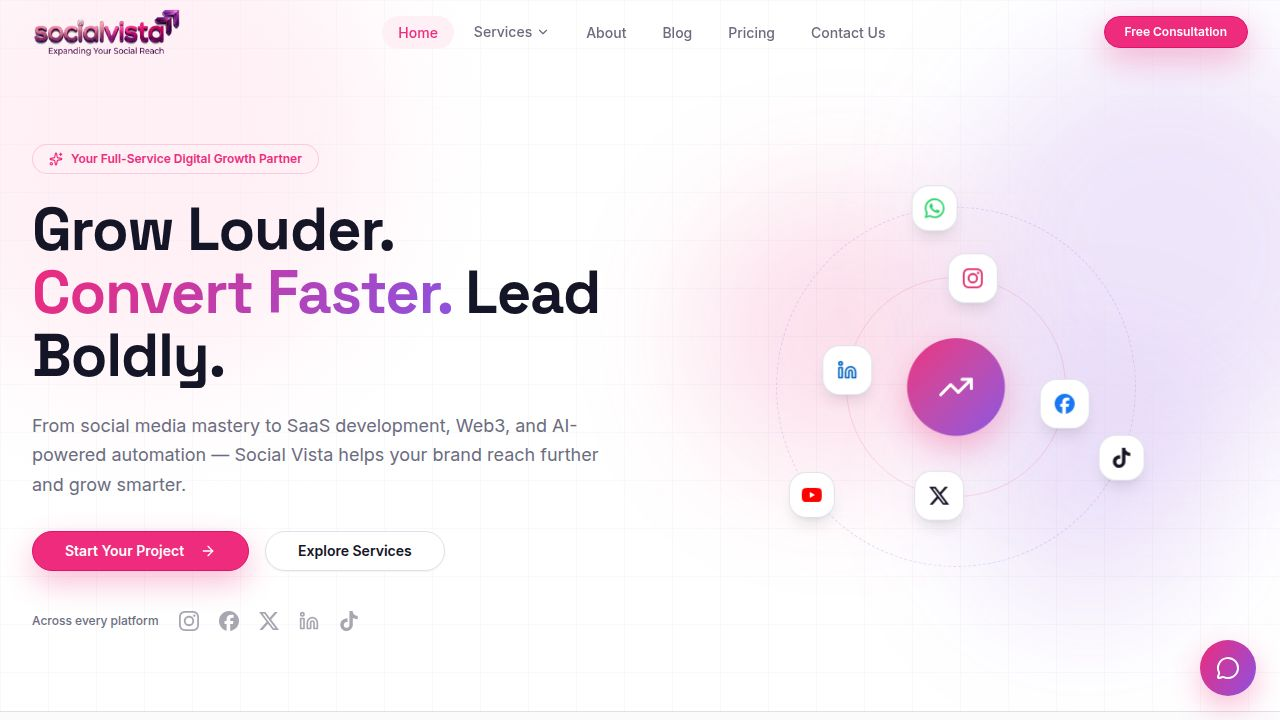
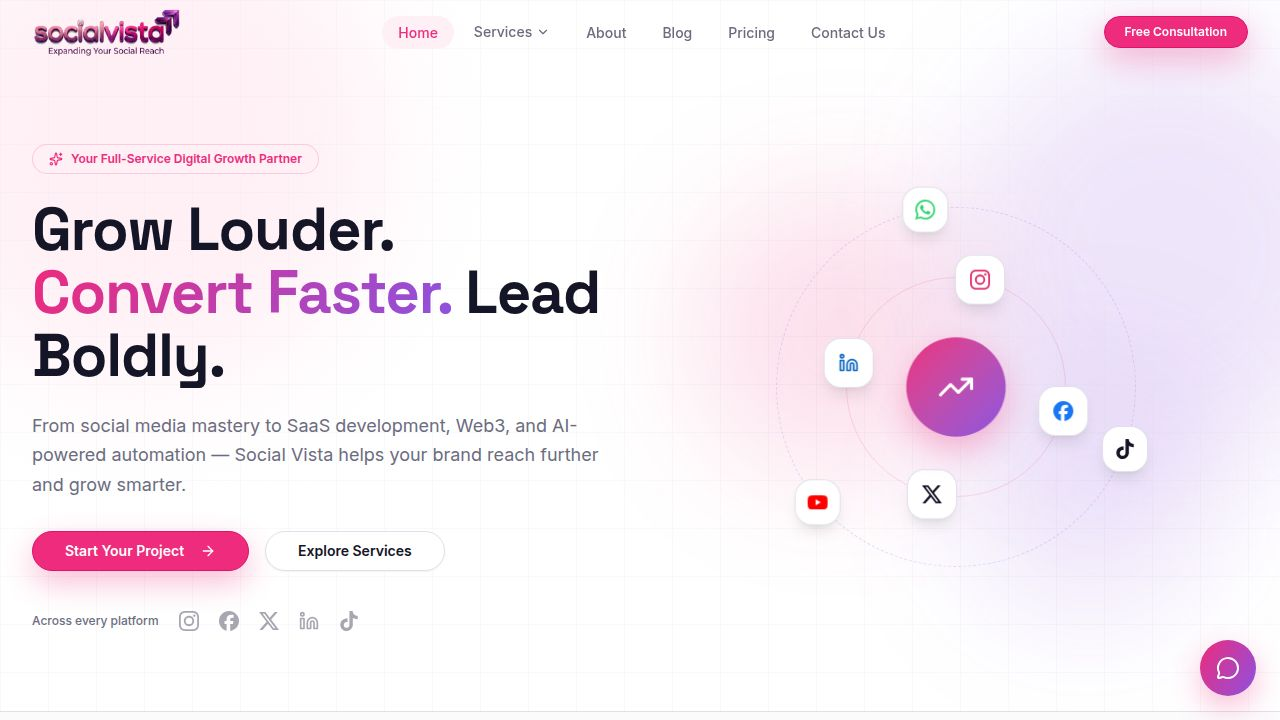
Let staff reuse previously uploaded email images
Adds a "Recent images" picker to the lead email composer so staff can
reuse a previously uploaded email_asset (e.g. logo, seasonal banner)
without re-uploading.

Changes:
- openapi.yaml: new GET /admin/email-assets (operationId listEmailAssets)
  returning an array of EmailAsset; reuses the existing EmailAsset schema.
  Ran codegen to regenerate api-client-react hooks and api-zod.
- api-server (routes/email-assets.ts): GET /admin/email-assets handler,
  guarded by requireAuth + requirePermission("canEmailLeads"). Returns up
  to 60 most-recent assets (ordered by created_at desc), mapped to
  {id, url, mimeType, filename}. Selects only the needed columns (not the
  base64 data blob) to keep the list response light.
- use-email-composer.ts: added selectImage(url) to set the composer's
  imageUrl from an existing asset URL (no upload).
- EmailComposerFields.tsx: when no image is selected, shows an "Upload" +
  "Recent images" button pair. Toggling "Recent images" lazily fetches the
  library (query enabled only when open) and renders a thumbnail grid;
  clicking a thumbnail calls selectImage and closes the picker.

Deviation: DELETE was listed as optional in the task and is covered by the
sibling task "Let staff remove email images they no longer want", so it was
intentionally left out to avoid overlap.

Verified: typecheck passes for both packages; GET endpoint returns 401
unauthenticated and the asset list when authenticated.
[…]

diff --git a/artifacts/social-vista/src/components/admin/EmailComposerFields.tsx b/artifacts/social-vista/src/components/admin/EmailComposerFields.tsx
@@ -1,5 +1,6 @@
-import { useRef } from "react";
-import { ImagePlus, Loader2, X } from "lucide-react";
+import { useRef, useState } from "react";
+import { ImagePlus, Images, Loader2, X } from "lucide-react";
+import { useListEmailAssets, getListEmailAssetsQueryKey } from "@workspace/api-client-react";
 import { Input } from "@/components/ui/input";
 import { Label } from "@/components/ui/label";
 import { Textarea } from "@/components/ui/textarea";
@@ -24,6 +25,10 @@ export default function EmailComposerFields({
 }) {
   const { toast } = useToast();
   const fileRef = useRef<HTMLInputElement>(null);
+  const [showLibrary, setShowLibrary] = useState(false);
+  const { data: recentImages, isLoading: loadingLibrary } = useListEmailAssets({
+    query: { enabled: showLibrary, queryKey: getListEmailAssetsQueryKey() },
+  });
 
   async function handleFile(e: React.ChangeEvent<HTMLInputElement>) {
     const file = e.target.files?.[0];
@@ -150,21 +155,72 @@ export default function EmailComposerFields({
               </div>
             </div>
           ) : (
-            <Button
-              type="button"
-              variant="outline"
-              className="mt-1.5 w-full"
-              onClick={() => fileRef.current?.click()}
-              disabled={composer.uploading}
-              data-testid="button-upload-image"
-            >
-              {composer.uploading ? (
-                <Loader2 className="w-4 h-4 mr-2 animate-spin" />
-              ) : (
-                <ImagePlus className="w-4 h-4 mr-2" />
+            <div className="mt-1.5 space-y-2">
+              <div className="grid grid-cols-2 gap-2">
+                <Button
+                  type="button"
+                  variant="outline"
+                  onClick={() => fileRef.current?.click()}
+                  disabled={composer.uploading}
+                  data-testid="button-upload-image"
+                >
+                  {composer.uploading ? (
+                    <Loader2 className="w-4 h-4 mr-2 animate-spin" />
+                  ) : (
+                    <ImagePlus className="w-4 h-4 mr-2" />
+                  )}
+                  {composer.uploading ? "Uploading…" : "Upload"}
+                </Button>
+                <Button
+                  type="button"
+                  variant={showLibrary ? "default" : "outline"}
+                  onClick={() => setShowLibrary((v) => !v)}
+                  data-testid="button-toggle-image-library"
+                >
+                  <Images className="w-4 h-4 mr-2" />
+                  Recent images
+                </Button>
+              </div>
+              {showLibrary && (
+                <div
+                  className="rounded-lg border border-border p-2 bg-muted/20"
+                  data-testid="image-library"
+                >
+                  {loadingLibrary ? (
+                    <div className="flex items-center justify-center py-6 text-muted-foreground">
+                      <Loader2 className="w-4 h-4 animate-spin" />
+                    </div>
+                  ) : recentImages && recentImages.length > 0 ? (
+                    <div className="grid grid-cols-4 gap-2 max-h-40 overflow-y-auto">
+                      {recentImages.map((img) => (
+                        <button
+                          key={img.id}
+                          type="button"
+                          onClick={() => {
+                            composer.selectImage(img.url);
+                            setShowLibrary(false);
+                            toast({ title: "Image added to the email." });
+                          }}
+                          className="rounded-md border border-border overflow-hidden bg-white hover:border-primary transition-colors aspect-square"
+                          title={img.filename ?? "Email image"}
+                          data-testid={`button-library-image-${img.id}`}
+                        >
+                          <img
+                            src={img.url}
+                            alt={img.filename ?? "Email image"}
+                            className="w-full h-full object-contain"
+                          />
+                        </button>
+                      ))}
+                    </div>
+                  ) : (
+                    <p className="text-xs text-muted-foreground text-center py-6">
+                      No images uploaded yet.
+                    </p>
+                  )}
+                </div>
               )}
-              {composer.uploading ? "Uploading…" : "Upload image"}
-            </Button>
+            </div>
           )}
           <p className="text-[10px] text-muted-foreground mt-1.5">
             PNG, JPEG, GIF, or WebP up to 5MB.

diff --git a/artifacts/api-server/src/routes/email-assets.ts b/artifacts/api-server/src/routes/email-assets.ts
@@ -1,10 +1,12 @@
 import { Router } from "express";
 import { db, emailAssetsTable } from "@workspace/db";
-import { eq } from "drizzle-orm";
+import { desc, eq } from "drizzle-orm";
 import { UploadEmailAssetBody } from "@workspace/api-zod";
 import { requireAuth, requirePermission, type AuthedRequest } from "../lib/auth.js";
 
 const router = Router();
+
+const LIST_LIMIT = 60;
 
 const ALLOWED_MIME = new Set(["image/png", "image/jpeg", "image/gif", "image/webp"]);
 const MAX_BYTES = 5 * 1024 * 1024; // 5MB decoded
@@ -48,6 +50,36 @@ router.post(
     } catch (err) {
       req.log.error({ err }, "Failed to upload email asset");
       res.status(400).json({ error: "Invalid input" });
+    }
+  },
+);
+
+router.get(
+  "/admin/email-assets",
+  requireAuth,
+  requirePermission("canEmailLeads"),
+  async (req, res) => {
+    try {
+      const assets = await db
+        .select({
+          id: emailAssetsTable.id,
+          mimeType: emailAssetsTable.mimeType,
+          filename: emailAssetsTable.filename,
+        })
+        .from(emailAssetsTable)
+        .orderBy(desc(emailAssetsTable.createdAt))
+        .limit(LIST_LIMIT);
+      res.json(
+        assets.map((asset) => ({
+          id: asset.id,
+          url: `/api/email-assets/${asset.id}`,
+          mimeType: asset.mimeType,
+          filename: asset.filename,
+        })),
+      );
+    } catch (err) {
+      req.log.error({ err }, "Failed to list email assets");
+      res.status(500).json({ error: "Failed to load images" });
     }
   },
 );

diff --git a/artifacts/social-vista/src/hooks/use-email-composer.ts b/artifacts/social-vista/src/hooks/use-email-composer.ts
@@ -28,6 +28,7 @@ export interface EmailComposer {
   setImagePlacement: (v: ImagePlacement) => void;
   applyTemplate: (id: LeadTemplateId) => void;
   uploadFile: (file: File) => Promise<void>;
+  selectImage: (url: string) => void;
   removeImage: () => void;
   previewHtml: (name: string) => string;
   payload: () => ReplyPayload;
@@ -78,6 +79,8 @@ export function useEmailComposer(initial: LeadTemplateId = "intro"): EmailCompos
     [upload],
   );
 
+  const selectImage = useCallback((url: string) => setImageUrl(url), []);
+
   const removeImage = useCallback(() => setImageUrl(null), []);
 
   const previewHtml = useCallback(
@@ -115,6 +118,7 @@ export function useEmailComposer(initial: LeadTemplateId = "intro"): EmailCompos
     setImagePlacement,
     applyTemplate,
     uploadFile,
+    selectImage,
     removeImage,
     previewHtml,
     payload,